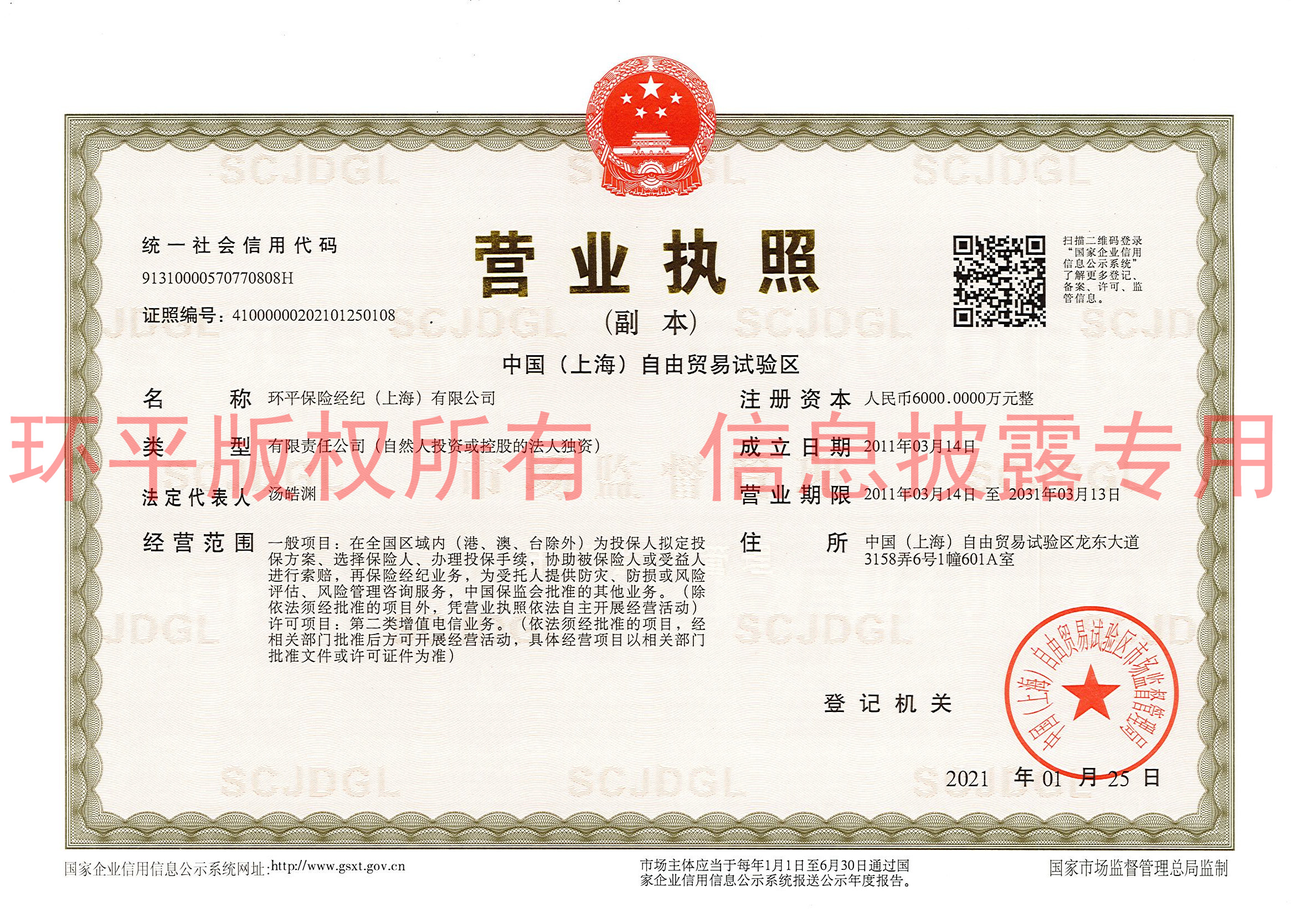
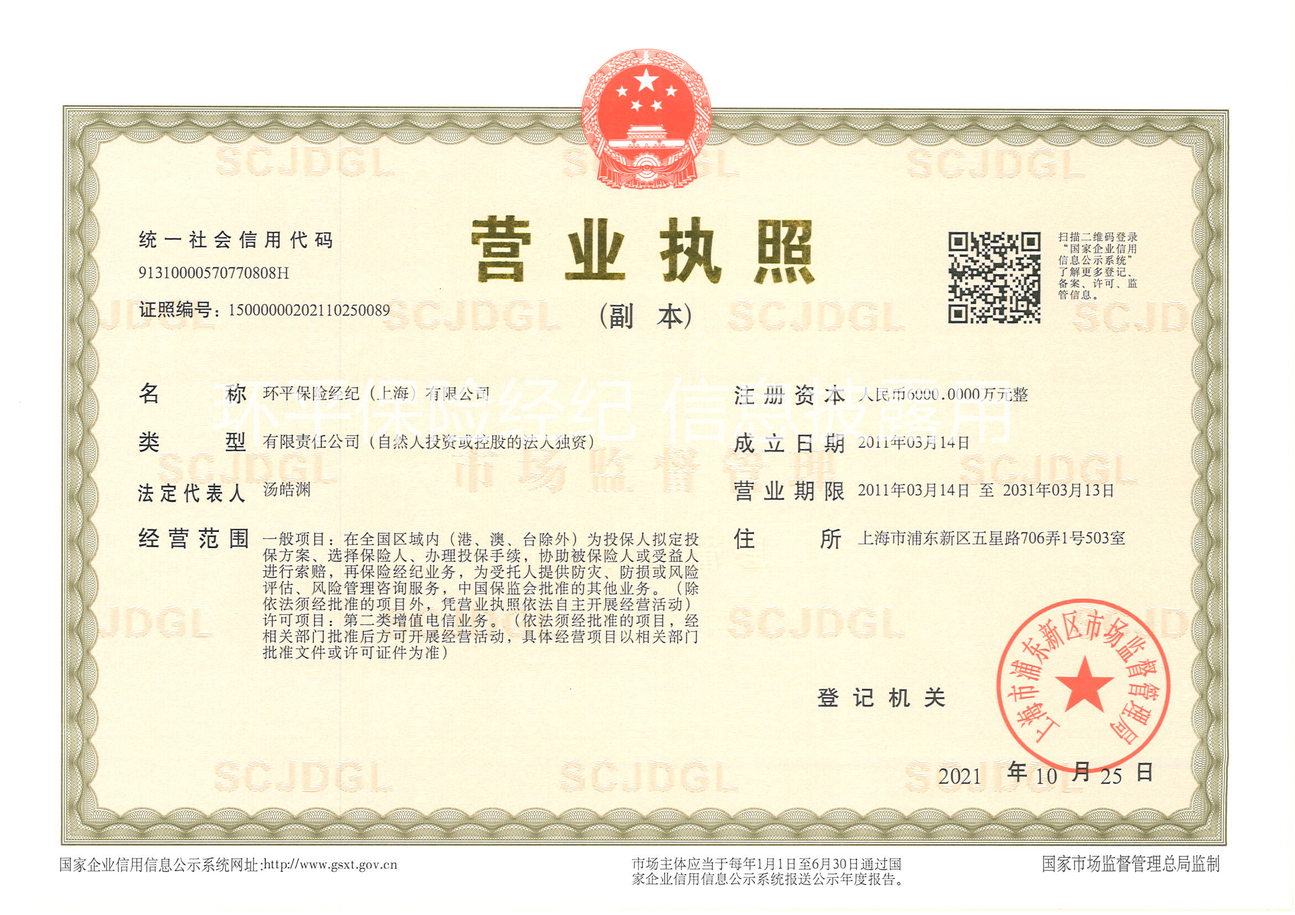
updata

diff --git a/index.html b/index.html
@@ -264,8 +264,7 @@
     <section id="connet-us">
       <h2>联系我们</h2>
       <p>环平保险经纪（上海）有限公司</p>
-      <p>021-58942390（周一至周五9:00-18:00）</p>
-      <p>中国（上海）自由贸易试验区龙东大道3158弄6号一幢别墅601A</p>
+      <p>上海市浦东新区五星路706弄1号503室</p>
     </section>
     <div class="footer">
       <div class="copyRight">
@@ -275,7 +274,7 @@
             >沪ICP备20017560号-1</a
           >
         </p>
-        <p class="com_loc">公司地址：上海市浦东新区龙东大道3000号10号楼7楼</p>
+        <p class="com_loc">公司地址：上海市浦东新区五星路706弄1号503室</p>
         <p>Copyright © 2020 环平保险经纪（上海）有限公司 版权所有</p>
       </div>
     </div>
